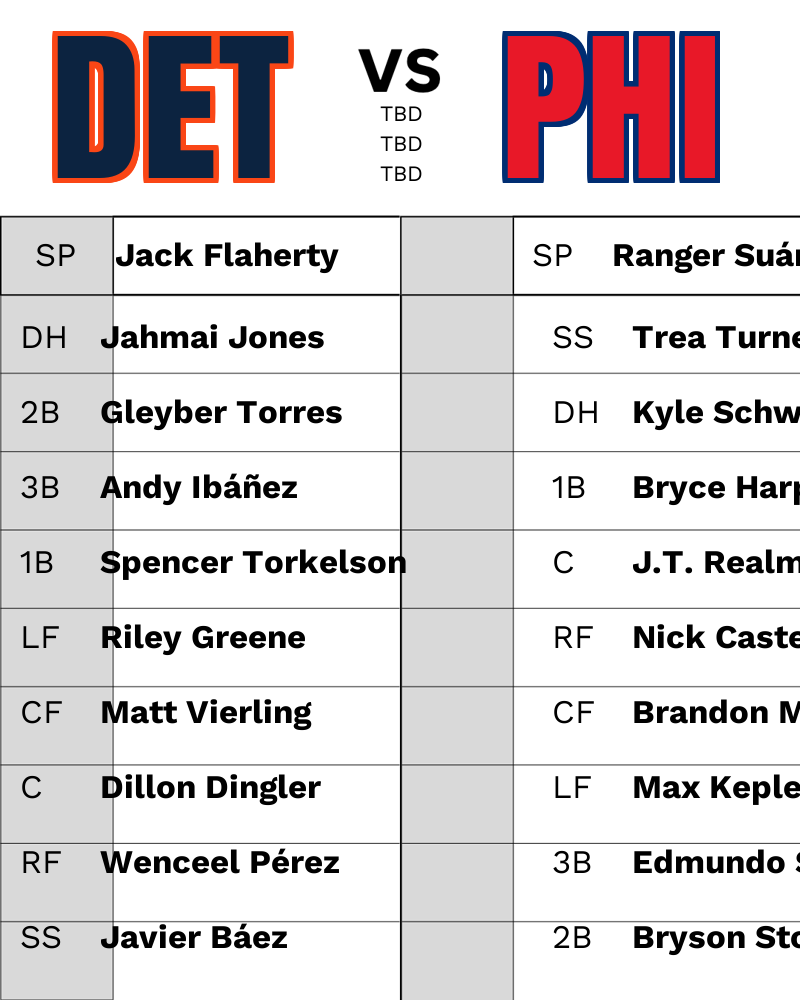
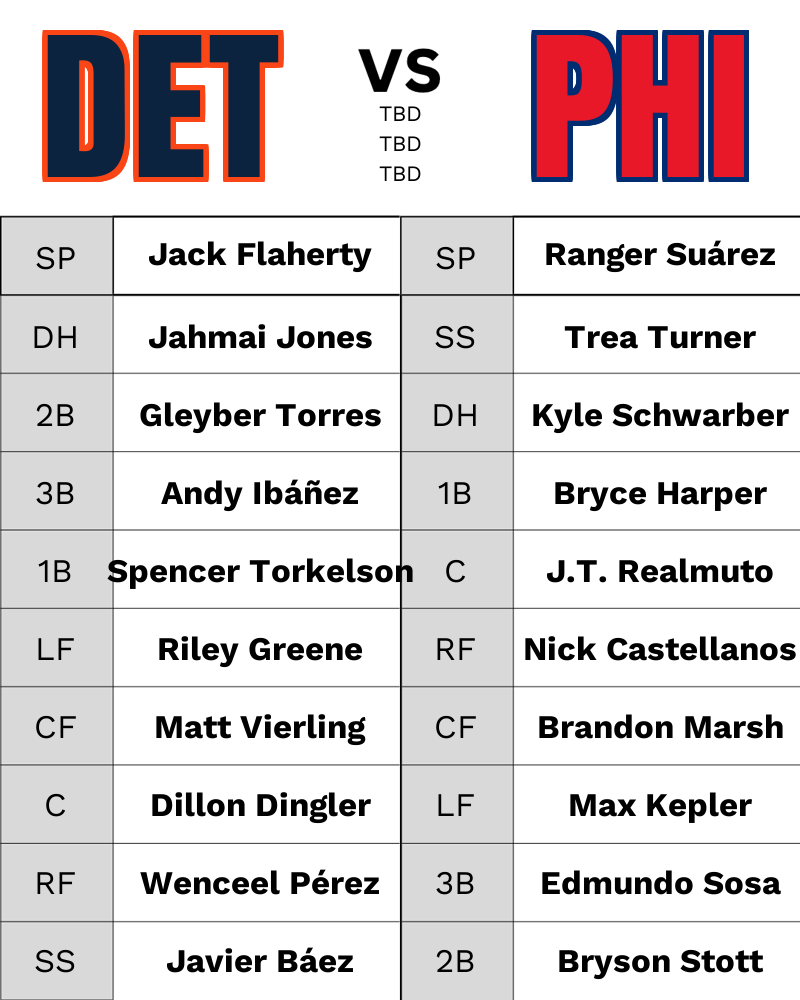
FixedCentering
Fixed centering of text boxes on images

diff --git a/MLB_Matchup/src/twitter_image_generator.py b/MLB_Matchup/src/twitter_image_generator.py
@@ -1,3 +1,4 @@
+from tkinter import X
 from turtle import home
 from PIL import Image, ImageDraw, ImageFont
 import os
@@ -86,7 +87,7 @@ class TwitterImageGenerator:
         except:
             return {}
 
-    def get_centered_text_xy(draw, text, font, center):
+    def get_centered_text_xy(self, draw, text, font, center):
         
         cx, cy = center
         bbox = draw.textbbox((0, 0), text, font=font)
@@ -124,16 +125,17 @@ class TwitterImageGenerator:
         # Away team abbreviation with outline
         outline_width = 5
         # Draw outline by drawing text multiple times with offsets
+        x, y = self.get_centered_text_xy(draw, away_abr, self.font_big, (160, 40))
         away_secondary_color = self.team_secondary_colors.get(game_data['away_team'], "black")
         for dx in range(-outline_width, outline_width + 1):
             for dy in range(-outline_width, outline_width + 1):
                 if dx != 0 or dy != 0:  # Skip the center position
-                    draw.text((50 + dx, -30 + dy), away_abr, font=self.font_big, fill=away_secondary_color)
+                    draw.text((x + dx, y + dy), away_abr, font=self.font_big, fill=away_secondary_color)
         # Draw the main text
-        draw.text((50,-30), away_abr, font=self.font_big, fill=away_color)
+        draw.text((x,y), away_abr, font=self.font_big, fill=away_color)
         
         # Home team abbreviation with outline
-        x, y = get_centered_text_xy(draw, home_abr, self.font_big, (500, -30))
+        x, y = self.get_centered_text_xy(draw, home_abr, self.font_big, (640, 40))
         home_secondary_color = self.team_secondary_colors.get(game_data['home_team'], "black")
         for dx in range(-outline_width, outline_width + 1):
             for dy in range(-outline_width, outline_width + 1):
@@ -155,46 +157,60 @@ class TwitterImageGenerator:
         venue = game_data.get('venue', 'TBD')
         location = game_data.get('location', 'TBD')
         
-        draw.text((self.width//2-20, 100), game_date, font=self.font_mid, fill=self.text_color)
-        draw.text((self.width//2-20, 130), venue, font=self.font_mid, fill=self.text_color)
-        draw.text((self.width//2-20, 160), location, font=self.font_mid, fill=self.text_color)
+        x, y = self.get_centered_text_xy(draw, game_date, self.font_mid, (400, 40))
+        draw.text((x, 100), game_date, font=self.font_mid, fill=self.text_color)
+        x, y = self.get_centered_text_xy(draw, venue, self.font_mid, (400, 40))
+        draw.text((x, 130), venue, font=self.font_mid, fill=self.text_color)
+        x, y = self.get_centered_text_xy(draw, location, self.font_mid, (400, 40))
+        draw.text((x, 160), location, font=self.font_mid, fill=self.text_color)
         
         # Draw lineups - just the text, no table drawing
         away_lineup = game_data.get('away_lineup', [])
         home_lineup = game_data.get('home_lineup', [])
         
         # Define positions for text (you'll need to adjust these to match your template)
-        table_top = 145
-        row_h = 75
-        col_w = self.width//3
+        YvalTopCell = 250
+        row_h = 78
         
         # Pitcher names with separate SP label and name fields
         away_sp = game_data.get('away_pitcher', 'TBD')
         home_sp = game_data.get('home_pitcher', 'TBD')
-        draw.text((35, table_top+row_h+15), "SP", font=self.font_reg, fill="black")
-        draw.text((115, table_top+row_h+15), away_sp, font=self.font_bold, fill="black")
-        draw.text((col_w*2, table_top+row_h+15), "SP", font=self.font_reg, fill="black")
-        draw.text((col_w*2+80, table_top+row_h+15), home_sp, font=self.font_bold, fill="black")
+
+        x, y = self.get_centered_text_xy(draw, "SP", self.font_reg, (55, YvalTopCell))
+        draw.text((x, y), "SP", font=self.font_reg, fill="black")
+
+        x, y = self.get_centered_text_xy(draw, away_sp, self.font_bold, (260, YvalTopCell))
+        draw.text((x, y), away_sp, font=self.font_bold, fill="black")
+
+        x, y = self.get_centered_text_xy(draw, "SP", self.font_reg, (455, YvalTopCell))
+        draw.text((x, y), "SP", font=self.font_reg, fill="black")
+
+        x, y = self.get_centered_text_xy(draw, home_sp, self.font_bold, (660, YvalTopCell))
+        draw.text((x, y), home_sp, font=self.font_bold, fill="black")
         
         # Draw lineup text only
         for i in range(9):
-            y = table_top + row_h*(i+2)
+            y = (YvalTopCell+45) + row_h*(i)
             
             # Away team lineup (left column)
             if i < len(away_lineup):
                 player = away_lineup[i]
                 pos = player.get('position', '')
                 name = player.get('name', '')
-                draw.text((35, y+50), pos, font=self.font_reg, fill="black")
-                draw.text((100, y+22), name, font=self.font_bold, fill="black")
+                x, n = self.get_centered_text_xy(draw, pos, self.font_reg, (55, 40))
+                draw.text((x, y+22), pos, font=self.font_reg, fill="black")
+                x, n = self.get_centered_text_xy(draw, name, self.font_bold, (260, 40))
+                draw.text((x, y+22), name, font=self.font_bold, fill="black")
             
             # Home team lineup (right column)
             if i < len(home_lineup):
                 player = home_lineup[i]
                 pos = player.get('position', '')
                 name = player.get('name', '')
-                draw.text((col_w*2+35, y+22), pos, font=self.font_reg, fill="black")
-                draw.text((col_w*2+100, y+22), name, font=self.font_bold, fill="black")
+                x, n = self.get_centered_text_xy(draw, pos, self.font_reg, (455, 40))
+                draw.text((x, y+22), pos, font=self.font_reg, fill="black")
+                x, n = self.get_centered_text_xy(draw, name, self.font_bold, (660, 40))
+                draw.text((x, y+22), name, font=self.font_bold, fill="black")
         
         # Save the image
         image.save(output_path)
